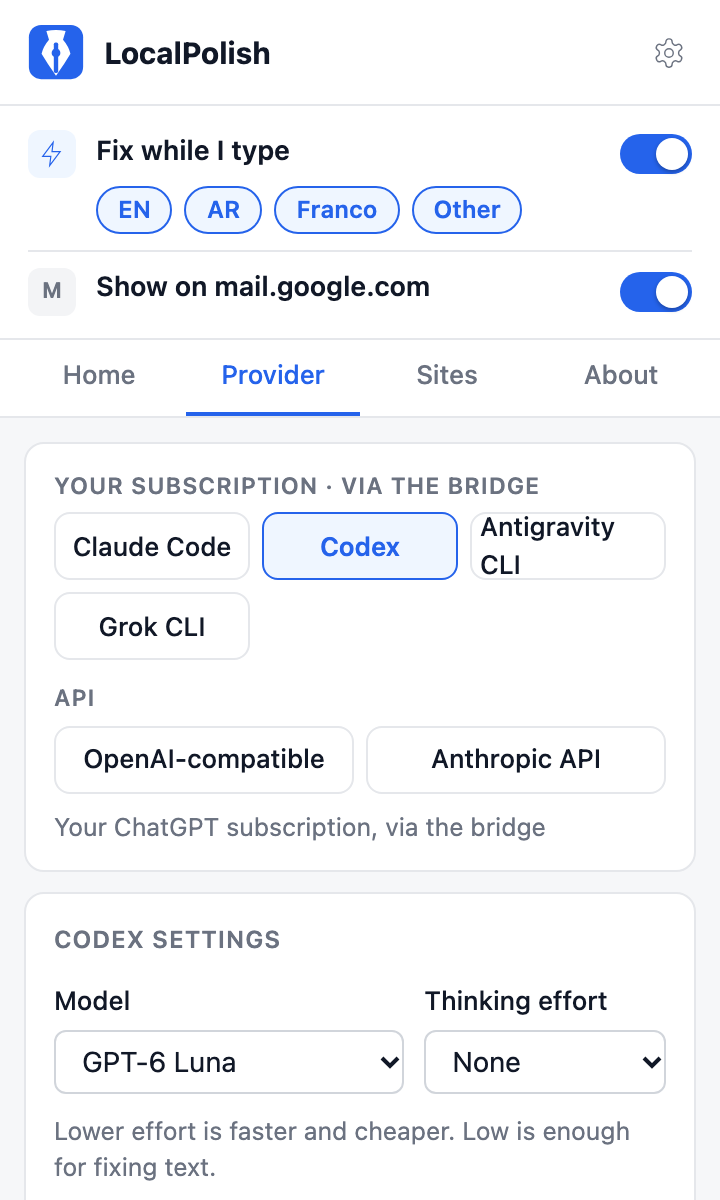
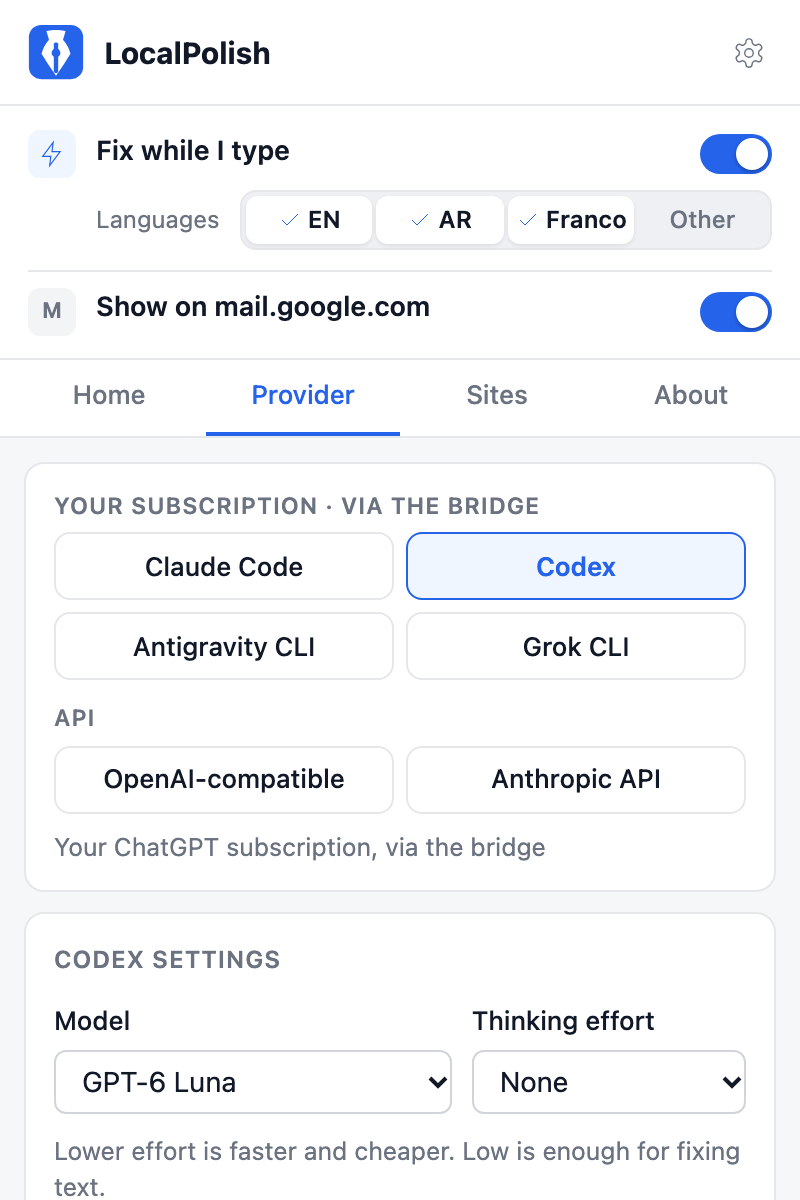
style: wider popup, even provider grid, segmented language control (T22d)

diff --git a/src/popup/popup.css b/src/popup/popup.css
@@ -28,7 +28,7 @@ body {
 }
 
 body {
-  width: 360px;
+  width: 400px;
   height: 600px;
   overflow: hidden;
   background: var(--bg);
@@ -59,7 +59,7 @@ select {
 /* Popup frame */
 
 .popup {
-  width: 360px;
+  width: 400px;
   height: 600px;
   display: flex;
   flex-direction: column;
@@ -263,31 +263,63 @@ select:focus-visible {
 /* Sits under the idle row, lined up with its text: icon 24px + gap 10px. */
 .qlangs {
   display: flex;
-  gap: 6px;
-  padding: 0 0 8px 34px;
-  margin-top: -4px;
+  align-items: center;
+  gap: 10px;
+  padding: 0 0 10px 34px;
+  margin-top: -2px;
+}
+
+.qlangs-label {
+  flex: none;
+  font-size: 12px;
+  color: var(--muted);
+}
+
+/* A multi-select take on the segmented control: each language is on or off on its own. */
+.lang-seg {
+  flex: 1;
+  display: flex;
+  gap: 2px;
+  padding: 2px;
+  background: var(--seg);
+  border: 1px solid var(--border);
+  border-radius: 8px;
 }
 
 button.lang {
+  flex: 1;
+  min-width: 0;
   height: 24px;
-  padding: 0 10px;
-  border-radius: 999px;
-  border-color: var(--border);
-  background: transparent;
+  padding: 0 4px;
+  border: none;
+  border-radius: 6px;
+  background: none;
   color: var(--muted);
   font-size: 12px;
   font-weight: 500;
+  display: flex;
+  align-items: center;
+  justify-content: center;
+  gap: 3px;
 }
 
-button.lang[aria-pressed='true'] {
-  border-color: var(--accent);
-  background: var(--accent-soft);
-  color: var(--accent);
-  font-weight: 600;
+button.lang:hover:not(:disabled) {
+  color: var(--text);
+  background: none;
 }
 
+button.lang[aria-pressed='true'],
 button.lang[aria-pressed='true']:hover:not(:disabled) {
-  border-color: var(--accent);
+  background: var(--seg-on);
+  color: var(--text);
+  font-weight: 600;
+  box-shadow: var(--shadow);
+}
+
+button.lang svg {
+  width: 12px;
+  height: 12px;
+  color: var(--accent);
 }
 
 .qicon {
@@ -461,7 +493,7 @@ span.tip.on {
 }
 
 .tab:focus-visible {
-  outline-offset: -2px;
+  outline-offset: -4px;
 }
 
 .tab .bad {
@@ -767,19 +799,16 @@ button.copy {
 
 .chips {
   display: grid;
-  grid-template-columns: repeat(3, 1fr);
-  gap: 6px;
-}
-
-.chips.two {
   grid-template-columns: repeat(2, 1fr);
+  gap: 6px;
 }
 
 .chip {
   position: relative;
   min-width: 0;
   height: 34px;
-  padding: 0 4px;
+  padding: 0 8px;
+  white-space: nowrap;
   border-radius: 8px;
   border: 1px solid var(--border);
   background: var(--card);

diff --git a/src/popup/QuickToggles.tsx b/src/popup/QuickToggles.tsx
@@ -1,7 +1,7 @@
 import { type Settings } from '../core/settings';
 import { LANGUAGES } from '../options/sections';
 import { useSettingsApi } from '../options/useSettings';
-import { BoltIcon } from './icons';
+import { BoltIcon, CheckIcon } from './icons';
 import { hideSite, showSite, siteState, type SiteState } from './sites';
 import { Switch } from './Switch';
 import { Tooltip } from './Tooltip';
@@ -40,21 +40,27 @@ export function QuickToggles({ settings, host, onOpenSites }: QuickTogglesProps)
         />
       </div>
       {settings.idleFix && (
-        <div class="qlangs" role="group" aria-label="Languages to fix while I type">
-          {LANGUAGES.map(({ id, name, short }) => (
-            <button
-              key={id}
-              type="button"
-              class="lang"
-              aria-label={name}
-              aria-pressed={settings.languages[id]}
-              onClick={() =>
-                change((s) => ({ languages: { ...s.languages, [id]: !s.languages[id] } }))
-              }
-            >
-              {short}
-            </button>
-          ))}
+        <div class="qlangs">
+          <span class="qlangs-label" aria-hidden="true">
+            Languages
+          </span>
+          <div class="lang-seg" role="group" aria-label="Languages to fix while I type">
+            {LANGUAGES.map(({ id, name, short }) => (
+              <button
+                key={id}
+                type="button"
+                class="lang"
+                aria-label={name}
+                aria-pressed={settings.languages[id]}
+                onClick={() =>
+                  change((s) => ({ languages: { ...s.languages, [id]: !s.languages[id] } }))
+                }
+              >
+                {settings.languages[id] && <CheckIcon />}
+                {short}
+              </button>
+            ))}
+          </div>
         </div>
       )}
       <SiteRow settings={settings} host={host} onOpenSites={onOpenSites} />

diff --git a/tests/e2e/action-popup.spec.ts b/tests/e2e/action-popup.spec.ts
@@ -379,8 +379,8 @@ test('bridge rows and Check again asks again', async ({ page }) => {
 });
 
 for (const { path, colorScheme, width } of [
-  { path: 'popup.html', colorScheme: 'light', width: 360 },
-  { path: 'popup.html', colorScheme: 'dark', width: 360 },
+  { path: 'popup.html', colorScheme: 'light', width: 400 },
+  { path: 'popup.html', colorScheme: 'dark', width: 400 },
   { path: 'setup.html', colorScheme: 'light', width: 720 },
   { path: 'setup.html', colorScheme: 'dark', width: 720 },
 ] as const) {
@@ -504,9 +504,9 @@ test('arrow keys move between tabs', async ({ page }) => {
   await expect(page.getByRole('tab', { name: 'About' })).toHaveAttribute('aria-selected', 'true');
 });
 
-test('the popup body is 360 px wide', async ({ page }) => {
+test('the popup body is 400 px wide', async ({ page }) => {
   await openPopup(page);
-  expect(await page.evaluate(() => document.body.getBoundingClientRect().width)).toBe(360);
+  expect(await page.evaluate(() => document.body.getBoundingClientRect().width)).toBe(400);
 });
 
 test('hover help shows after 2 seconds', async ({ page }) => {

diff --git a/src/popup/ProviderPicker.tsx b/src/popup/ProviderPicker.tsx
@@ -51,7 +51,7 @@ export function ProviderPicker({ settings }: { settings: Settings }) {
           ))}
         </div>
         <p class="pgroup-label">API</p>
-        <div class="chips two">
+        <div class="chips">
           {api.map((item) => (
             <Chip
               key={item.id}

diff --git a/docs/plans/features-1.3-1.4.md b/docs/plans/features-1.3-1.4.md
@@ -82,6 +82,8 @@ If the Antigravity spike fails, 1.3.0 ships without it, and Antigravity moves to
   - e2e: an Arabic draft with Arabic off gets no idle request, but manual Fix still sends one.
 - [x] **T22c. Language switches in the UI.** Art lane (Claude Opus). Brief: [T22c-language-ui.md](../briefs/T22c-language-ui.md). Four switches in options, under idle Fix, and the same four in the toolbar popup's Home tab if they fit. Depends on: T22b.
 
+- [x] **T22d. Popup polish** (owner's hand check, 22 October 2026). Claude, with the `impeccable` skill, at the owner's request. The popup is 400 px wide, up from 360. The provider chips use an even 2-column grid, so no name wraps. The language pills became a labeled multi-select segmented control that matches "Default mode", with a check mark on each language that is on. Screenshots retaken.
+
 ## 1.3.0 release (T24)
 
 - [ ] **T24. Release 1.3.0.** Follow `RELEASING.md`. The notes say: run `npm run bridge:install` again only if you want Antigravity. The owner hand-checks Fix with Antigravity and an Arabic draft with Arabic off.
